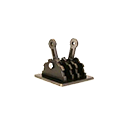
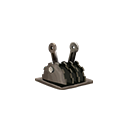
0.10.6
Art: Added new art for Spiked Shell.
	Art: Added new art for Heavy Switch.
	Art: Added new art for Hanging Clock, thanks and credit to RedDyeNo5.
	Balance: Flay+ now does 4 damage instead of 5.
	Feedback: Tempo and BPM now show the resulting card going to your deck.
	Text: Paper Twirtle now correctly specifies its effect occurs each turn.
	Text: Facsimile now specifes you get rocks when no relics are available.
	Bug: Fixed a bug where Wards exhausted twice when played.
	Bug: Retain code is cleaner, and no longer causes issues with Runic Pyramid discounts on other characters.
	Bug: Flay+ now correctly readds the right amount of strength (instead of always 1).
	Bug: Tempo cards now add to the correct spot of your deck.

Changed region(s): [[0.25, 0.2812, 0.75, 0.7188]]

diff --git a/src/main/java/patches/RestoreRetainedCardsEnergyUse.java b/src/main/java/patches/RestoreRetainedCardsEnergyUse.java
@@ -31,25 +31,21 @@ import chronomuncher.patches.RetainedForField;
 
 public class RestoreRetainedCardsEnergyUse {
 
-	@SpirePatch(cls = "com.megacrit.cardcrawl.actions.unique.RestoreRetainedCardsAction", method="update")
-	public static class Update {
-	
-		@SpireInsertPatch( rloc = 7, localvars={"e"} )
-		public static void Insert(RestoreRetainedCardsAction __instance, AbstractCard e)
-		{
-			if ( AbstractDungeon.player.hasRelic("Chronometer") || AbstractDungeon.player.hasRelic("Chronograph")) {
-	            e.modifyCostForTurn(-1);
-				int kept = RetainedForField.retainedFor.get(e);
-	            RetainedForField.retainedFor.set(e, kept+1);
-			}
-    		if ( AbstractDungeon.player.hasRelic("Chronograph")) {
-		      if (e.canUpgrade())
-		      {
-		        e.superFlash();
-		        e.upgrade();
-		        e.applyPowers();
-		      }
-  			}
+	public static void lowerCostFromRetain(AbstractCard c) {
+		c.modifyCostForTurn(-1);
+		int kept = RetainedForField.retainedFor.get(c);
+		RetainedForField.retainedFor.set(c, kept+1);
+		c.isCostModifiedForTurn = true;
+	}
+
+	public static void upgradeFromChronograph(AbstractCard c) {
+		if ( AbstractDungeon.player.hasRelic("Chronograph")) {
+		  if (c.canUpgrade())
+		  {
+			c.superFlash();
+			c.upgrade();
+			c.applyPowers();
+		  }
 		}
 	}
 
@@ -58,58 +54,35 @@ public class RestoreRetainedCardsEnergyUse {
 	
 		public static void Replace(AbstractCard __instance)
 		{
-		    __instance.block = __instance.baseBlock;
-		    __instance.isBlockModified = false;
-		    __instance.damage = __instance.baseDamage;
-		    __instance.isDamageModified = false;
-		    __instance.magicNumber = __instance.baseMagicNumber;
-		    __instance.isMagicNumberModified = false;
-		    __instance.damageTypeForTurn = (DamageInfo.DamageType)ReflectionHacks.getPrivate(__instance, AbstractCard.class, "damageType");
+			__instance.block = __instance.baseBlock;
+			__instance.isBlockModified = false;
+			__instance.damage = __instance.baseDamage;
+			__instance.isDamageModified = false;
+			__instance.magicNumber = __instance.baseMagicNumber;
+			__instance.isMagicNumberModified = false;
+			__instance.damageTypeForTurn = (DamageInfo.DamageType)ReflectionHacks.getPrivate(__instance, AbstractCard.class, "damageType");
 
+			// Check required for Compendium
 			if (AbstractDungeon.player != null) {
 
-			    if (AbstractDungeon.player.hasPower("Equilibrium") 
-			    	&& AbstractDungeon.player.hand.contains(__instance)
-					&& (AbstractDungeon.player.hasRelic("Chronometer") || AbstractDungeon.player.hasRelic("Chronograph")) 
-			    	) {
-					__instance.modifyCostForTurn(-1);
-					int kept = RetainedForField.retainedFor.get(__instance);
-		            RetainedForField.retainedFor.set(__instance, kept+1);
-					__instance.isCostModifiedForTurn = true;
-		    		if ( AbstractDungeon.player.hasRelic("Chronograph")) {
-				      if (__instance.canUpgrade())
-				      {
-				        __instance.superFlash();
-				        __instance.upgrade();
-				        __instance.applyPowers();
-				      }
-		  			}
-					return;
-			    }
+				// We have a discounting relic, and the card is in the player's hand
+				if ((AbstractDungeon.player.hasRelic("Chronometer") || AbstractDungeon.player.hasRelic("Chronograph")) 
+					&& AbstractDungeon.player.hand.contains(__instance)
+					&& ((__instance.retain == true) || AbstractDungeon.player.hasPower("Equilibrium"))) {
+					// lower costs and such
+					RestoreRetainedCardsEnergyUse.lowerCostFromRetain(__instance);
+					RestoreRetainedCardsEnergyUse.upgradeFromChronograph(__instance);
+				}
 
-				if ( __instance.retain == false) { 
-					if (!AbstractDungeon.player.hasRelic("Runic Pyramid") || !AbstractDungeon.player.hand.contains(__instance)) {
-						// ChronoMod.log(__instance.cardID + "'s cost was reset, no Pyramid or not in hand.");
-					    __instance.costForTurn = __instance.cost;
-					    __instance.isCostModifiedForTurn = false;			
-			            RetainedForField.retainedFor.set(__instance, 0);
+				// No discounting relic exists
+				else {
+					if ((AbstractDungeon.player.hasRelic("Runic Pyramid") && RetainedForField.retainedFor.get(__instance) > 0) 
+					&& (AbstractDungeon.player.hasRelic("Chronometer") || AbstractDungeon.player.hasRelic("Chronograph"))) {
+						return;
 					}
-				} else {
-					if (AbstractDungeon.player.hasRelic("Runic Pyramid") 
-						&& __instance.retain 
-						&& (AbstractDungeon.player.hasRelic("Chronometer") || AbstractDungeon.player.hasRelic("Chronograph")) 
-						&& AbstractDungeon.player.hand.contains(__instance)) {
-						// Decrease cost here?
-						// ChronoMod.log(__instance.cardID + " was retained with Runic Pyramid active, and is in your hand.");
-					    __instance.modifyCostForTurn(-1);
-						int kept = RetainedForField.retainedFor.get(__instance);
-			            RetainedForField.retainedFor.set(__instance, kept+1);
-					    __instance.isCostModifiedForTurn = true;
-					    __instance.retain = false;
-					} 
-					// else {
-					// 	ChronoMod.log(__instance.cardID + " did not qualify for cost decrease. In hand is " + Boolean.toString(AbstractDungeon.player.hand.contains(__instance)));
-					// }
+					__instance.costForTurn = __instance.cost;
+					__instance.isCostModifiedForTurn = false;			
+					RetainedForField.retainedFor.set(__instance, 0);
 				}
 			}
 		}
@@ -144,9 +117,9 @@ public class RestoreRetainedCardsEnergyUse {
 	
 		public static void Replace(AbstractPower __instance, boolean isPlayer)
 		{
-		    if ((isPlayer) && (!AbstractDungeon.player.hand.isEmpty())) {
+			if ((isPlayer) && (!AbstractDungeon.player.hand.isEmpty())) {
 				AbstractDungeon.actionManager.addToBottom(new RetainCardsAction(__instance.owner, __instance.amount));
-		    }
+			}
 		}
 	}
 }

diff --git a/src/main/java/cards/Facsimile.java b/src/main/java/cards/Facsimile.java
@@ -68,11 +68,9 @@ public class Facsimile extends MetricsCard {
 		relicList.add(new Pair("Orichalcum", 		UnlockedOrichalcum.class));
 		relicList.add(new Pair("Thread and Needle", UnlockedThread.class));
 		relicList.add(new Pair("Bird Faced Urn", 	UnlockedUrn.class));
-		relicList.add(new Pair("Chronometer", 		UnlockedPlans.class));
-		relicList.add(new Pair("Chronograph", 		UnlockedPlans.class));
+		relicList.add(new Pair("Metronome", 		UnlockedPlans.class));
 		relicList.add(new Pair("War Paint", 		UnlockedWarPaint.class));
 		relicList.add(new Pair("Whetstone", 		UnlockedWhetstone.class));
-
 		relicList.add(new Pair("MawBank", 			UnlockedMawBank.class));
 		relicList.add(new Pair("Anchor", 			UnlockedAnchor.class));
 		relicList.add(new Pair("Astrolabe", 		UnlockedAstrolabe.class));
@@ -100,7 +98,7 @@ public class Facsimile extends MetricsCard {
    		String plural = (this.replicaStrings.size() > 1) ? "s" : "";
    		String end = " NL Currently " + Integer.toString(this.replicaStrings.size()) + " relic" + plural + " can be replicated.";
    		if (this.replicaStrings.size() == 0) {
-   			end = " NL Currrently you can't replicate any of your relics.";
+   			end = " NL Currrently you will only replicate Rocks.";
    		}
 	    
 	    this.rawDescription = DESCRIPTION + end;
@@ -118,10 +116,8 @@ public class Facsimile extends MetricsCard {
 	    for (AbstractRelic relic : AbstractDungeon.player.relics) {
 			for (Pair<String, Class> replica : relicList) {
 				if (replica.getKey() == relic.relicId) {
-					if (replica.getKey() == "Chronometer") {
+					if (replica.getKey() == "Metronome") {
 						this.replicaStrings.add("Plans from " + relic.name);
-					} else if (replica.getKey() == "Chronograph") {
-						this.replicaStrings.add("Plans+ from " + relic.name);
 					} else if (replica.getKey() == "Blue Candle") {
 						this.replicaStrings.add("Medicine+ from " + relic.name);
 					} else {

diff --git a/src/main/java/cards/Flay.java b/src/main/java/cards/Flay.java
@@ -57,13 +57,13 @@ public class Flay extends MetricsCard {
 	 		    	new ApplyPowerAction(mo, p, new StrengthPower(mo, -this.multiDamage[i]), -this.multiDamage[i], true, AbstractGameAction.AttackEffect.NONE));
 
 	 		    if (!mo.hasPower("Artifact")) {
-		 		    if (this.upgraded) {
+		 		    // if (this.upgraded) {
 			 		    AbstractDungeon.actionManager.addToBottom(
 			 		    	new ApplyPowerAction(mo, p, new DelayedGainStrengthPower(mo, this.magicNumber, this.multiDamage[i]), this.multiDamage[i], true, AbstractGameAction.AttackEffect.NONE));
-			 		} else {
-			 			AbstractDungeon.actionManager.addToBottom(
-		          			new ApplyPowerAction(mo, p, new GainStrengthPower(mo, this.multiDamage[i]), this.multiDamage[i], true, AbstractGameAction.AttackEffect.NONE));
-			 		}
+			 		// } else {
+			 		// 	AbstractDungeon.actionManager.addToBottom(
+		    //       			new ApplyPowerAction(mo, p, new GainStrengthPower(mo, this.multiDamage[i]), this.multiDamage[i], true, AbstractGameAction.AttackEffect.NONE));
+			 		// }
 			 	}
 			}
 		}
@@ -73,7 +73,7 @@ public class Flay extends MetricsCard {
 	public void upgrade() {
 		if (!this.upgraded) {
 			upgradeName();
-			upgradeDamage(UPGRADE_PLUS_DMG);
+			// upgradeDamage(UPGRADE_PLUS_DMG);
 			upgradeMagicNumber(SHRINK_UPGRADE);
       		this.rawDescription = UPGRADE_DESCRIPTION;
    		   	initializeDescription();

diff --git a/src/main/java/actions/TransformCardPermanently.java b/src/main/java/actions/TransformCardPermanently.java
@@ -7,6 +7,7 @@ import com.megacrit.cardcrawl.actions.common.MakeTempCardInDiscardAction;
 import com.megacrit.cardcrawl.actions.common.MakeTempCardInHandAction;
 import com.megacrit.cardcrawl.cards.AbstractCard;
 import com.megacrit.cardcrawl.cards.CardGroup;
+import com.megacrit.cardcrawl.core.Settings;
 import com.megacrit.cardcrawl.characters.AbstractPlayer;
 import com.megacrit.cardcrawl.dungeons.AbstractDungeon;
 import com.megacrit.cardcrawl.unlock.UnlockTracker;
@@ -14,6 +15,7 @@ import com.megacrit.cardcrawl.cards.CardGroup;
 import com.megacrit.cardcrawl.relics.BottledFlame;
 import com.megacrit.cardcrawl.relics.BottledLightning;
 import com.megacrit.cardcrawl.relics.BottledTornado;
+import com.megacrit.cardcrawl.vfx.cardManip.ShowCardAndObtainEffect;
 
 import java.util.ArrayList;
 import java.util.Iterator;
@@ -61,7 +63,7 @@ public class TransformCardPermanently extends AbstractGameAction {
 		this.transformee.purgeOnUse = true;
 
   		// And add it to the deck
-		AbstractDungeon.player.masterDeck.addToBottom(this.transformToCard);
+		AbstractDungeon.effectList.add(new ShowCardAndObtainEffect(this.transformToCard, Settings.WIDTH / 2.0F + (AbstractCard.IMG_WIDTH + 16.0F) * Settings.scale, Settings.HEIGHT / 2.0F));
 
 		// Update Bottles
 		 if (this.transformee.inBottleFlame) { 

diff --git a/src/main/java/patches/PointyPatch.java b/src/main/java/patches/PointyPatch.java
@@ -1,0 +1,25 @@
+package chronomuncher.patches;
+
+import com.evacipated.cardcrawl.modthespire.lib.*;
+import com.evacipated.cardcrawl.modthespire.patcher.PatchingException;
+import com.megacrit.cardcrawl.dungeons.AbstractDungeon;
+import com.megacrit.cardcrawl.orbs.AbstractOrb;
+import com.megacrit.cardcrawl.characters.AbstractPlayer;
+import javassist.CannotCompileException;
+import javassist.CtBehavior;
+import com.megacrit.cardcrawl.monsters.city.BanditPointy;
+import java.util.ArrayList;
+
+import chronomuncher.patches.Enum;
+import chronomuncher.orbs.ReplicaOrb;
+
+@SpirePatch(clz=BanditPointy.class, method="takeTurn")
+public class PointyPatch
+{
+    public static void Prefix(BanditPointy __instance) {
+    	if (__instance.nextMove == -2) {
+    		SpireReturn.Return(null);
+    	}
+    	SpireReturn.Continue();
+    }
+}

diff --git a/src/main/java/powers/DelayedGainStrengthPower.java b/src/main/java/powers/DelayedGainStrengthPower.java
@@ -51,7 +51,7 @@ public class DelayedGainStrengthPower extends AbstractPower
     {
       AbstractDungeon.actionManager.addToBottom(new ReducePowerAction(this.owner, this.owner, this, 1));
       if (this.amount <= 1) {
-        AbstractDungeon.actionManager.addToBottom(new ApplyPowerAction(this.owner, this.owner, new StrengthPower(this.owner, this.amount), this.amount));
+        AbstractDungeon.actionManager.addToBottom(new ApplyPowerAction(this.owner, this.owner, new StrengthPower(this.owner, this.strength), this.strength));
       }
     }
   }

diff --git a/src/main/java/cards/Ward.java b/src/main/java/cards/Ward.java
@@ -37,15 +37,6 @@ public class Ward extends MetricsCard {
 		AbstractDungeon.actionManager.addToBottom(new GainBlockAction(p, p, this.block));
 	}
 
-    public void triggerOnExhaust() {
-   		AbstractDungeon.player.limbo.group.remove(this);
-    	AbstractDungeon.player.exhaustPile.addToTop(this);
-    	AbstractDungeon.actionManager.removeFromQueue(this);
-   	    this.unhover();
-	    this.untip();
-	    this.stopGlowing();
-    }
-
 	@Override
 	public void upgrade() {
 		if (!this.upgraded) {

diff --git a/src/main/java/powers/StunPower.java b/src/main/java/powers/StunPower.java
@@ -75,7 +75,7 @@ public class StunPower extends AbstractPower
     }
 
     if (!isPlayer && (this.owner instanceof AbstractMonster)) { 
-      this.monster.setMove((byte)-1, AbstractMonster.Intent.STUN); 
+      this.monster.setMove((byte)-2, AbstractMonster.Intent.STUN); 
       this.monster.createIntent();
 
       if (!AbstractDungeon.getMonsters().areMonstersBasicallyDead())
